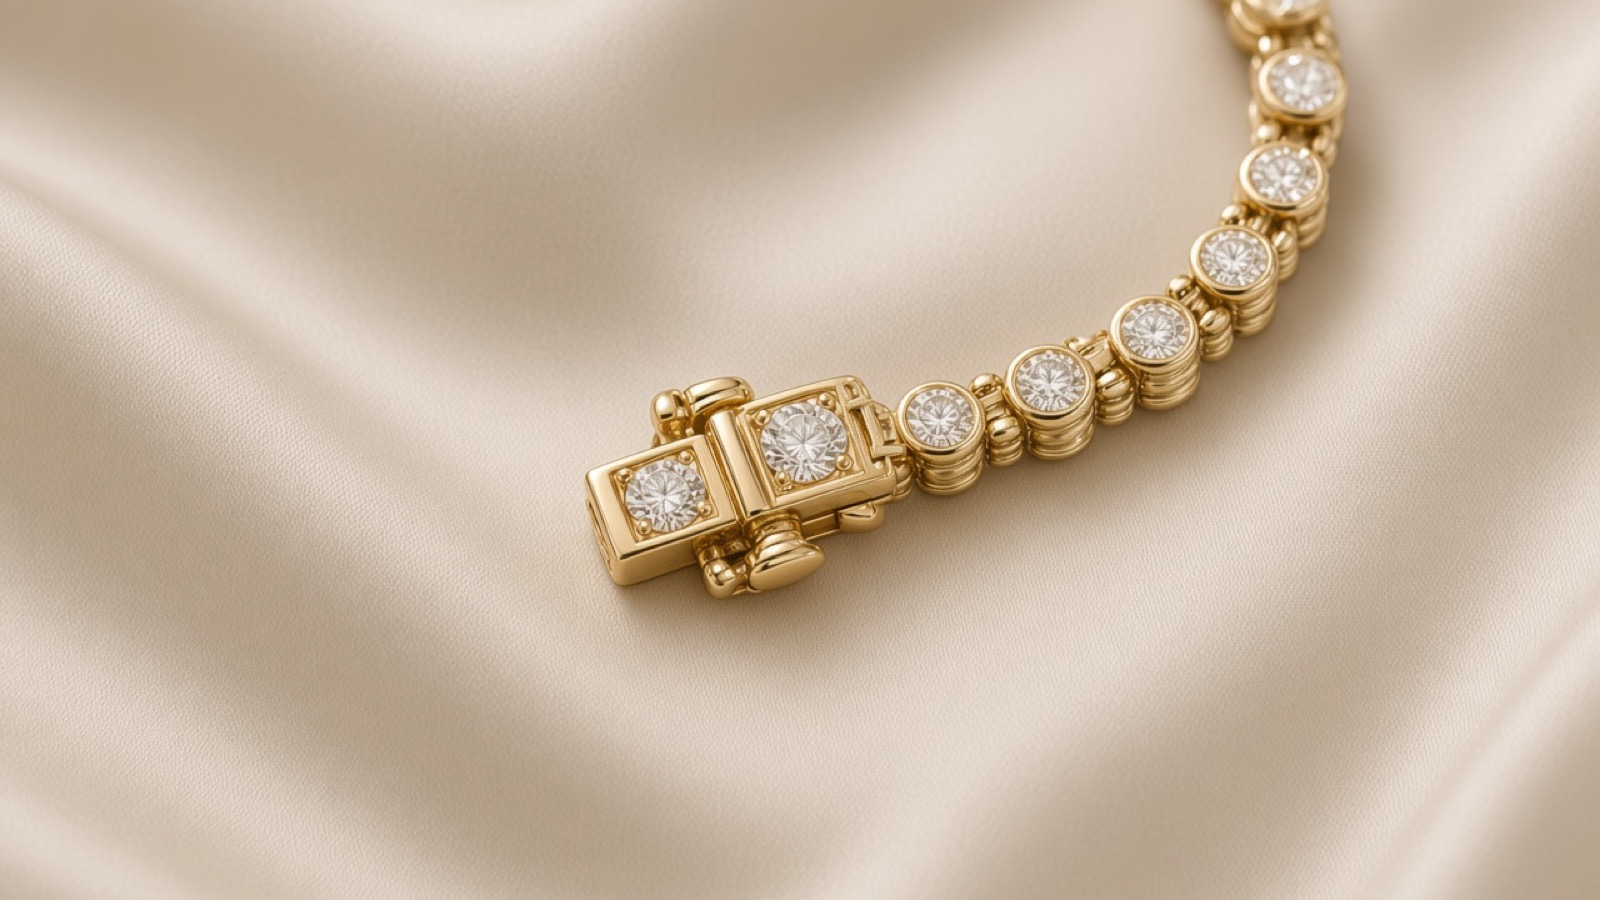
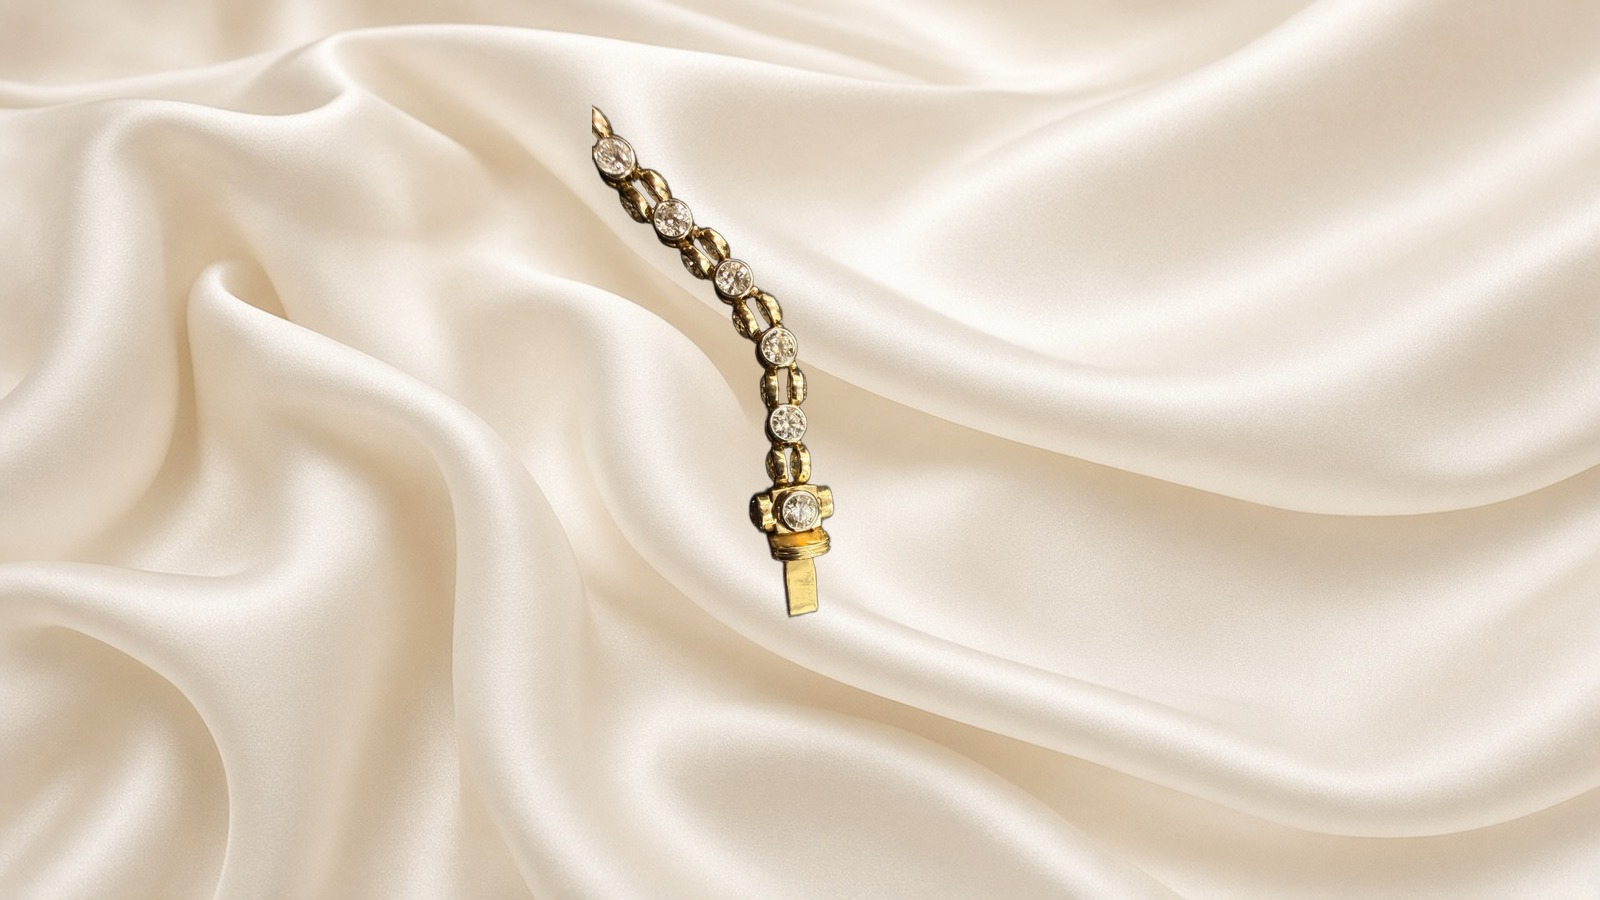
Simplify twisted bezel to Full plus inventory face and clasp.
Keep Full locked; drop layout and casting; place the supplied face and clasp photos on cream studio silk without changing the jewelry.

diff --git a/src/data/catalog.ts b/src/data/catalog.ts
@@ -89,22 +89,12 @@ export const catalogPieces: CatalogPiece[] = [
     image: 'images/products/bezel-tennis/cover.jpg',
     alt: 'Yellow gold twisted bezel diamond bracelet in oval layout on cream silk',
     blurb:
-      'Yellow-gold stacked/ribbed bezel links with round diamonds. Full locked; layout, casting, face, and clasp match that mold.',
+      'Yellow-gold stacked/ribbed bezel links with round diamonds. Full locked; face and clasp from inventory photos.',
     shots: [
       {
         src: 'images/products/bezel-tennis/cover.jpg',
         alt: 'Full yellow gold twisted bezel diamond bracelet on cream silk',
         label: 'Full',
-      },
-      {
-        src: 'images/products/bezel-tennis/layout.jpg',
-        alt: 'Layout of twisted bezel bracelet matching the full mold',
-        label: 'Layout',
-      },
-      {
-        src: 'images/products/bezel-tennis/casting.jpg',
-        alt: 'Casting profile of stacked ribbed bezel links',
-        label: 'Casting',
       },
       {
         src: 'images/products/bezel-tennis/face.jpg',
@@ -113,7 +103,7 @@ export const catalogPieces: CatalogPiece[] = [
       },
       {
         src: 'images/products/bezel-tennis/clasp.jpg',
-        alt: 'Clasp detail matching the twisted bezel full mold',
+        alt: 'Clasp detail of twisted bezel bracelet',
         label: 'Clasp',
       },
     ],
